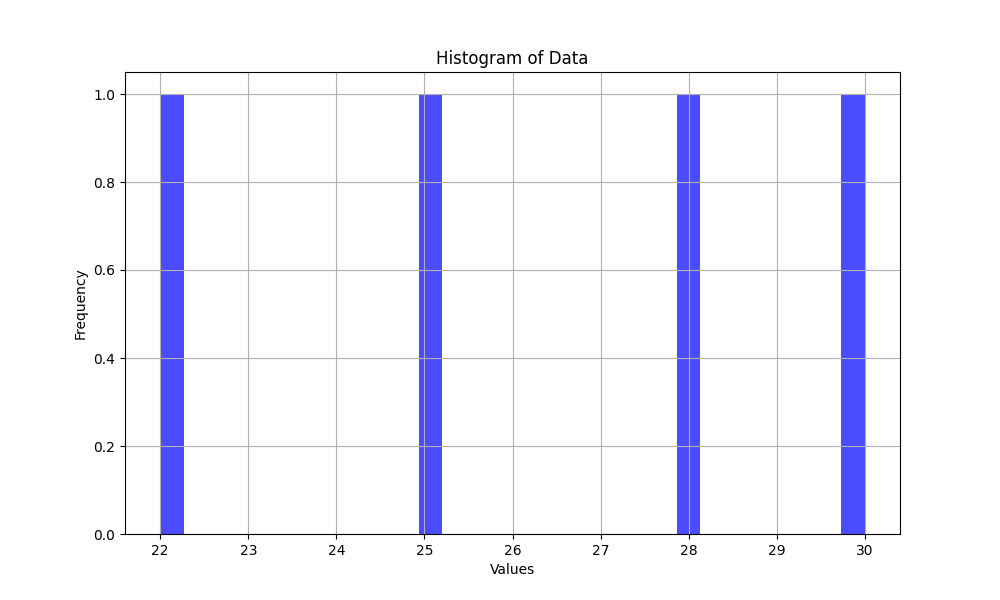
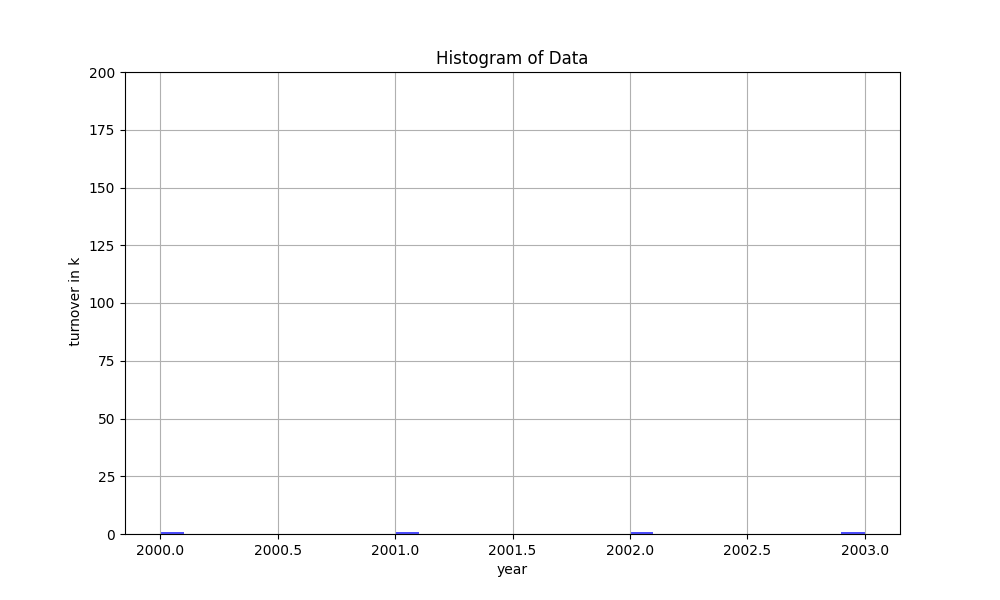
Add files via upload

diff --git a/templates/index.html b/templates/index.html
@@ -1,5 +1,5 @@
-
-{% load static %} 
+<!-- templates/index.html -->
+{% load static %} <!-- Add this line at the top -->
 
 <!DOCTYPE html>
 <html lang="en">
@@ -7,6 +7,7 @@
     <meta charset="UTF-8">
     <meta name="viewport" content="width=device-width, initial-scale=1.0">
     <title>Statistical Analysis App</title>
+    <!-- Add any additional CSS libraries or stylesheets here -->
     <link rel="stylesheet" href="https://maxcdn.bootstrapcdn.com/bootstrap/4.0.0/css/bootstrap.min.css">
     <style>
         img {
@@ -23,10 +24,18 @@
         .card {
             margin-top: 20px;
         }
+
+        /* Center the card horizontally */
+        .center-card {
+            display: flex;
+            justify-content: center;
+            align-items: center;
+            height: 100vh; /* Adjust this if needed */
+        }
     </style>
 </head>
 <body>
-    <div class="container">
+    <div class="container center-card"> <!-- Add the center-card class -->
         
         <div class="row">
             <div class="col-md-12 text-center">
@@ -35,73 +44,29 @@
             </div>
         </div>
 
-        <!-- Ask Question Card -->
-        <div class="row">
-            <div class="col-md-6">
-                <div class="card">
-                    <div class="card-body">
-                        <h5 class="card-title">Ask a Question</h5>
-                        <form method="post" enctype="multipart/form-data">
-                            {% csrf_token %}
-                            <div class="dropdown">
-                                <button class="btn btn-secondary dropdown-toggle" type="button" data-toggle="dropdown" aria-expanded="false">
-                                    Ask a question about the data:
-                                </button>
-                                <ul class="dropdown-menu">
-                                    <li><a class="dropdown-item" href="#" onclick="setQuestion('Action')"><div class="form-group">
-                                        <label for="userQuestion">Your Question:</label>
-                                        <input type="text" class="form-control" id="userQuestion" name="user_question">
-                                    </div>
-                                    <button type="submit" class="btn btn-primary">Ask Question</button></a></li>
-                                </ul>
-                            </div>
-                            
-                        </form>
-                    </div>
-                </div>
-            </div>
-
-            <!-- Data Upload and Analyze Card -->
-            <div class="col-md-6">
-                <div class="card">
-                    <div class="card-body">
-                        <h5 class="card-title">Upload and Analyze</h5>
-                        <form method="post" enctype="multipart/form-data">
-                            {% csrf_token %}
-                            {{ form.as_p }}
-                            <div class="form-group">
-                                <label for="plotType">Select plot type:</label>
-                                <select class="form-control" id="plotType" name="plot_type">
-                                    <option value="histogram">Histogram</option>
-                                    <option value="scatter">Scatter Plot</option>
-                                    <option value="line">Line Plot</option>
-                                   
-                                </select>
-                            </div>
-                            <button type="submit" class="btn btn-primary">Upload and Analyze</button>
-                        </form>
-                    </div>
+        <!-- Data Upload and Analyze Card -->
+        <div class="col-md-6">
+            <div class="card">
+                <div class="card-body">
+                    <h5 class="card-title">Upload and Analyze</h5>
+                    <form method="post" enctype="multipart/form-data">
+                        {% csrf_token %}
+                        {{ form.as_p }}
+                        <div class="form-group">
+                            <label for="plotType">Select plot type:</label>
+                            <select class="form-control" id="plotType" name="plot_type">
+                                <option value="histogram">Histogram</option>
+                                <option value="scatter">Scatter Plot</option>
+                                <option value="line">Line Plot</option>
+                               
+                            </select>
+                        </div>
+                        <button type="submit" class="btn btn-primary">Upload and Analyze</button>
+                    </form>
                 </div>
             </div>
         </div>
 
-        <!-- Display Analysis Results -->
-        {% if message %}
-            <p>{{ message }}</p>
-            {% if analysis_result %}
-                <h3>Analysis Result:</h3>
-                <p>{{ analysis_result }}</p>
-            {% endif %}
-            {% if plot_filename %}
-                <h3>Data Visualization:</h3>
-                <img src="{% static plot_filename %}" alt="Generated Plot">
-            {% endif %}
-            {% if generated_text %}
-                <h3>Generated Answer:</h3>
-                <p>{{ generated_text }}</p>
-            {% endif %}
-        {% endif %}
-    </div>
 
     <script>
         function setQuestion(question) {

diff --git a/templates/result.html b/templates/result.html
@@ -1,4 +1,4 @@
-
+<!-- templates/result.html -->
 <!DOCTYPE html>
 {% load static %}
 <html lang="en">
@@ -6,13 +6,83 @@
     <meta charset="UTF-8">
     <meta name="viewport" content="width=device-width, initial-scale=1.0">
     <title>Result Page</title>
+    <link href="https://cdn.jsdelivr.net/npm/bootstrap@5.3.0/dist/css/bootstrap.min.css" rel="stylesheet">
+    <style>
+        img {
+            max-width: 80%; /* Adjust the size as needed */
+            margin-top: 20px;
+            border: 4px solid #007bff;
+            border-radius: 10px;
+            display: block;
+            margin-left: auto;
+            margin-right: auto;
+        }
+
+        .card {
+            border: 1px solid #ddd;
+            border-radius: 8px;
+            box-shadow: 0 4px 8px rgba(0, 0, 0, 0.1);
+            padding: 15px;
+            margin-top: 20px;
+        }
+        
+        .card-title {
+            font-size: 1.5rem; /* Adjust the font size as needed */
+        }
+        
+        /* Adjust the width as needed */
+        .stats-card {
+            width: 300px;
+        }
+    </style>
 </head>
 <body>
-    <h1>Analysis Result</h1>
-    <h3>Data Visualization:</h3>
-    <img src="{% static 'generatedplot.png' %}" alt="Generated Plot">
+    <div class="container">
+        <h3>Data Visualization:</h3>
+        <img src="{% static 'generatedplot.png' %}" alt="Generated Plot">
 
-   
+        <div class="row justify-content-between">
+            <div class="col-md-5">
+                <div class="card">
+                    <div class="card-body">
+                        <h5 class="card-title">Ask a Question</h5>
+                        <form method="post" enctype="multipart/form-data">
+                            {% csrf_token %}
+                            <div class="form-group">
+                                <label for="userQuestion">Your Question:</label>
+                                <input type="text" class="form-control" id="userQuestion" name="user_question">
+                            </div>
+                            <button type="submit" class="btn btn-primary">Ask Question</button>
+                        </form>
+                    </div>
+                </div>
+            </div>
 
+            <!-- Right Column: Statistical Measures Card -->
+            <div class="col-md-5">
+                <div class="card stats-card">
+                    <div class="card-body">
+                        <h5 class="card-title">Statistical Measures</h5>
+                        <!-- Add the statistical values here based on your project -->
+                        <p>Mean: {{ mean_value }}</p>
+                        <p>Mode: {{ mode_value }}</p>
+                        <p>Median: {{ median_value }}</p>
+                        <!-- Add more statistical values as needed -->
+                    </div>
+                </div>
+            </div>
+        </div>
+    </div>
+
+    <script>
+        function setQuestion(question) {
+            document.getElementById('userQuestion').value = question;
+        }
+    </script>
+
+    
+    <script src="https://code.jquery.com/jquery-3.2.1.slim.min.js"></script>
+    <script src="https://cdnjs.cloudflare.com/ajax/libs/popper.js/1.12.9/umd/popper.min.js"></script>
+    <script src="https://maxcdn.bootstrapcdn.com/bootstrap/4.0.0/js/bootstrap.min.js"></script>
 </body>
 </html>

diff --git a/statistic/analysis.py b/statistic/analysis.py
@@ -15,20 +15,21 @@ def perform_statistical_analysis(data, question=None, plot_type='histogram'):
     if plot_type == 'histogram':
         plt.hist(data.iloc[:, 0], bins=30, color='blue', alpha=0.7)
         plt.title('Histogram of Data')
-        plt.xlabel('Values')
-        plt.ylabel('Frequency')
+        plt.xlabel(data.columns[0])
+        plt.ylabel(data.columns[1])
+        plt.ylim(top=200)
         plt.grid(True)
     elif plot_type == 'scatter':
         plt.scatter(data.iloc[:, 0], data.iloc[:, 1], color='red', alpha=0.7)
         plt.title('Scatter Plot')
-        plt.xlabel('X Values')
-        plt.ylabel('Y Values')
+        plt.xlabel(data.columns[0])
+        plt.ylabel(data.columns[1])
         plt.grid(True)
     elif plot_type == 'line':
         plt.plot(data.iloc[:, 0], data.iloc[:, 1], color='green', marker='o', linestyle='-', linewidth=2, markersize=8)
         plt.title('Line Plot')
-        plt.xlabel('X Values')
-        plt.ylabel('Y Values')
+        plt.xlabel(data.columns[0])
+        plt.ylabel(data.columns[1])
         plt.grid(True)
     
 

diff --git a/statistic/views.py b/statistic/views.py
@@ -50,5 +50,33 @@ def index(request):
 
     return render(request, 'index.html', context)
 
+
 def result(request):
+    if request.method == 'POST':
+        form = UploadFileForm(request.POST, request.FILES)
+        if form.is_valid():
+            
+            uploaded_file = form.save()
+
+            
+            df = pd.read_csv(uploaded_file.csv_file)
+
+            
+            height_column = df.iloc[:, 1]
+
+            
+            mean_value = height_column.mean()
+            mode_value = height_column.mode()[0] if not height_column.mode().empty else None
+            median_value = height_column.median()
+
+        
+            context = {
+                'mean_value': mean_value,
+                'mode_value': mode_value,
+                'median_value': median_value,
+            }
+
+            
+            return render(request, 'result.html', context)
+
     return render(request, 'result.html')

diff --git a/statistic/tests.py b/statistic/tests.py
@@ -1,3 +1,3 @@
 from django.test import TestCase
 
-# Create your tests here.
+
